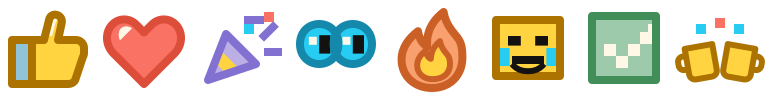
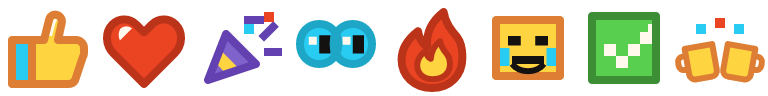
fix(reactions): regenerate bundled reaction atlas with saturated colors (#proj-raft-ui:#304)
Sync the bundled 768x96 thread reaction atlas (`reaction_atlas_v1.png`) from
botiverse/slock `e472b82a54` (#16972), restoring saturated raft-ui palette fills
and strokes across all 8 glyphs (including check_mark `#58CF4E` fill / `#3D8F35`
stroke / `#FFF9ED` check) while keeping `reaction_atlas_v1_manifest.json`
unchanged.

Also update `scripts/generate_thread_reaction_atlas.mjs` to write to the actual
bundled directory (`compose/shared-data/src/commonMain/composeResources/files/reactions/`)
and support `@resvg/resvg-js` as a fallback when `rsvg-convert` is unavailable.

diff --git a/change-logs/1.31.0/changesets/reaction-sprites-saturated-colors.md b/change-logs/1.31.0/changesets/reaction-sprites-saturated-colors.md
@@ -1,0 +1,21 @@
+---
+type: fixed
+area: thread
+platforms:
+  - android
+  - ios
+  - desktop
+rollout: full
+---
+
+## zh-CN
+
+恢复全部 8 枚 Raft 回应贴纸的高饱和度配色（与网页版保持一致），修复此前在浅色与深色模式下发灰偏暗的问题。
+
+## en
+
+Restored saturated colors across all eight bundled Raft reaction sprites (including the green check mark) to match the web and fix their washed-out appearance on light and dark themes.
+
+## ja
+
+全 8 種類の Raft リアクションスプライト（緑のチェックマークを含む）の彩度ある配色をウェブ版と一致するように復元し、ライト・ダーク両テーマでくすんで見える問題を修正しました。
